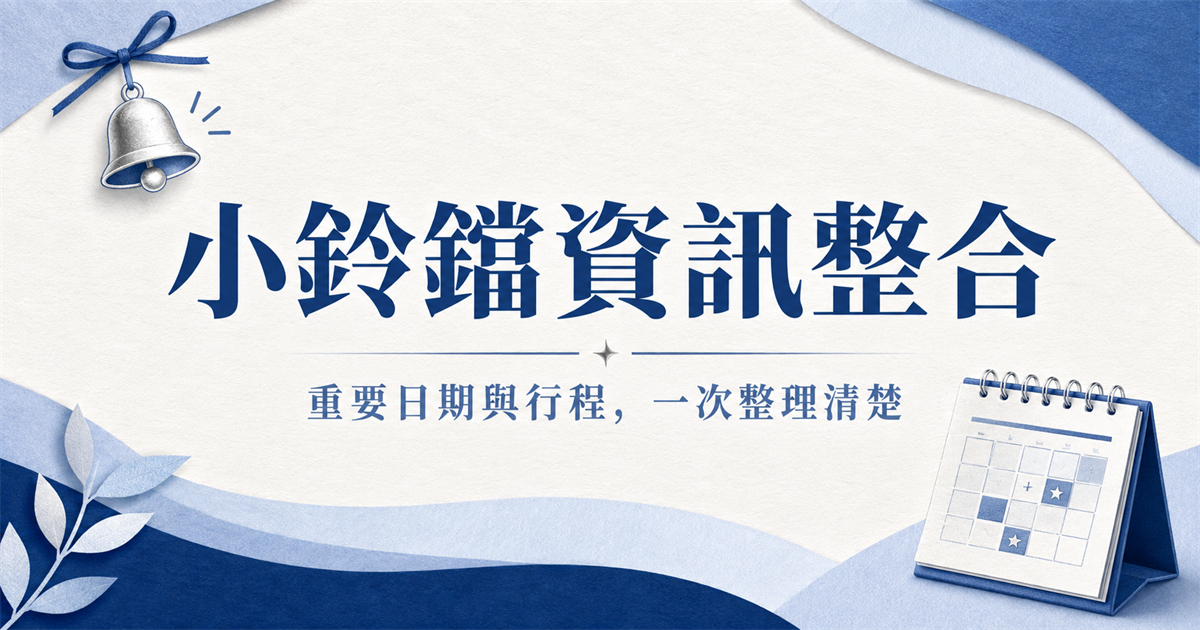
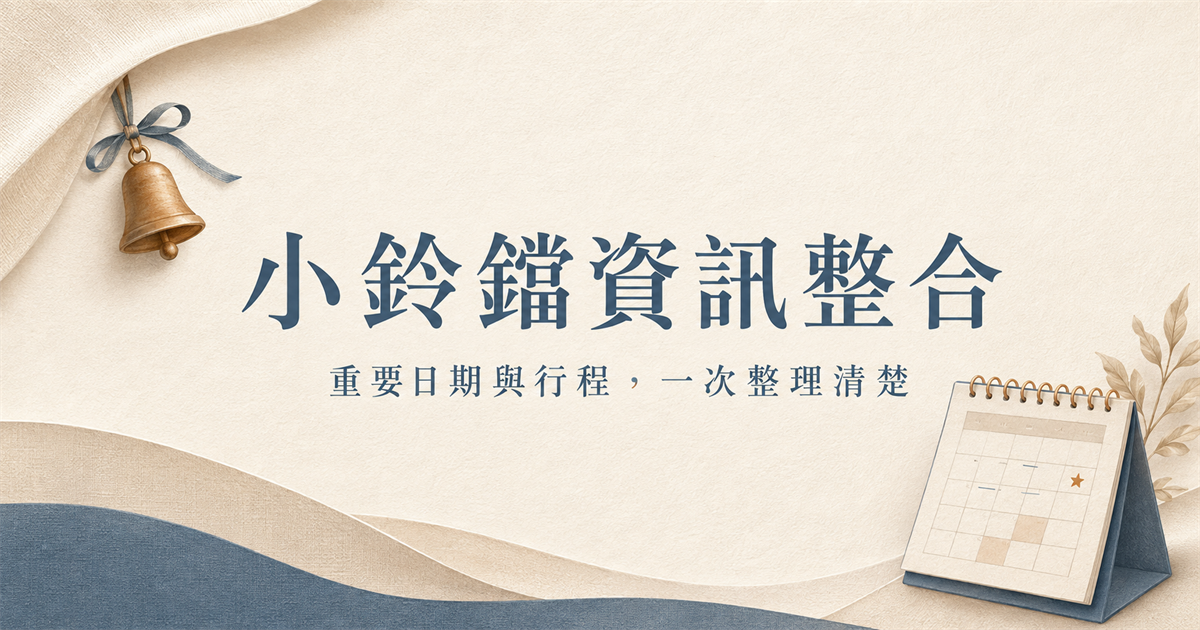
Refresh social preview artwork

diff --git a/index.html b/index.html
@@ -13,7 +13,7 @@
   <meta property="og:title" content="小鈴鐺資訊整合" />
   <meta property="og:description" content="重要日期與行程，一次整理清楚。" />
   <meta property="og:url" content="https://eilleenlan.github.io/lanbell/" />
-  <meta property="og:image" content="https://eilleenlan.github.io/lanbell/assets/og.png" />
+  <meta property="og:image" content="https://eilleenlan.github.io/lanbell/assets/og.png?v=20260905-warm" />
   <meta property="og:image:width" content="1200" />
   <meta property="og:image:height" content="630" />
   <meta property="og:image:alt" content="小鈴鐺資訊整合—重要日期與行程，一次整理清楚" />
@@ -21,7 +21,7 @@
   <meta name="twitter:card" content="summary_large_image" />
   <meta name="twitter:title" content="小鈴鐺資訊整合" />
   <meta name="twitter:description" content="重要日期與行程，一次整理清楚。" />
-  <meta name="twitter:image" content="https://eilleenlan.github.io/lanbell/assets/og.png" />
+  <meta name="twitter:image" content="https://eilleenlan.github.io/lanbell/assets/og.png?v=20260905-warm" />
   <title>小鈴鐺資訊整合</title>
   <link rel="stylesheet" href="./src/styles.css?v=20260903-warm-blue" />
   <link rel="stylesheet" href="./src/calendar.css?v=20260903-warm-blue" />
